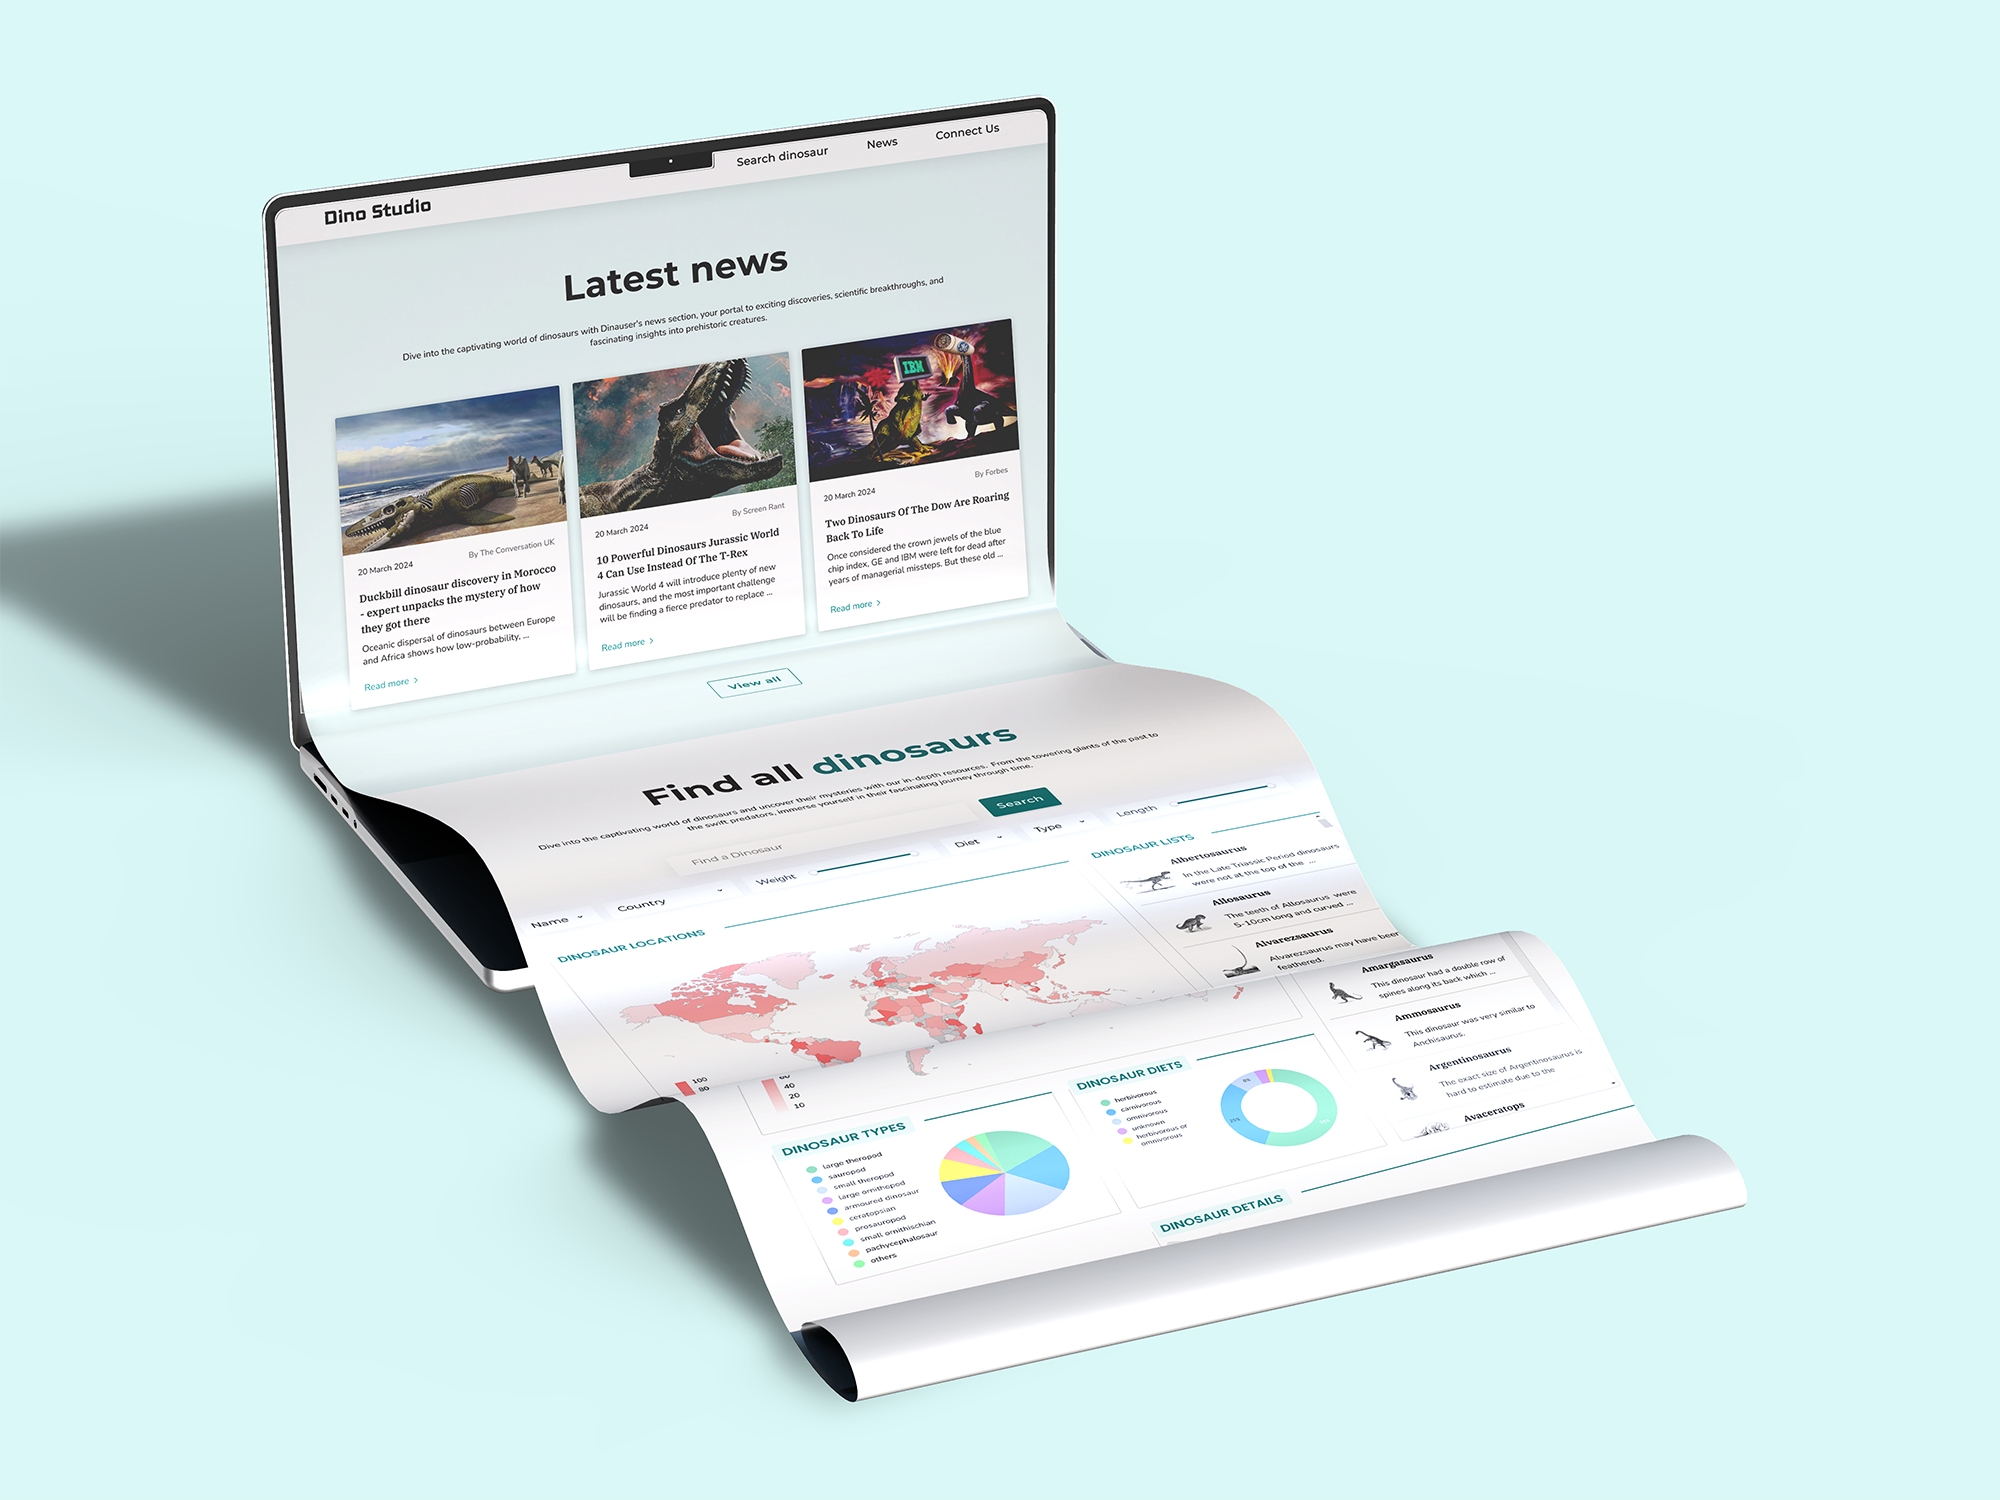
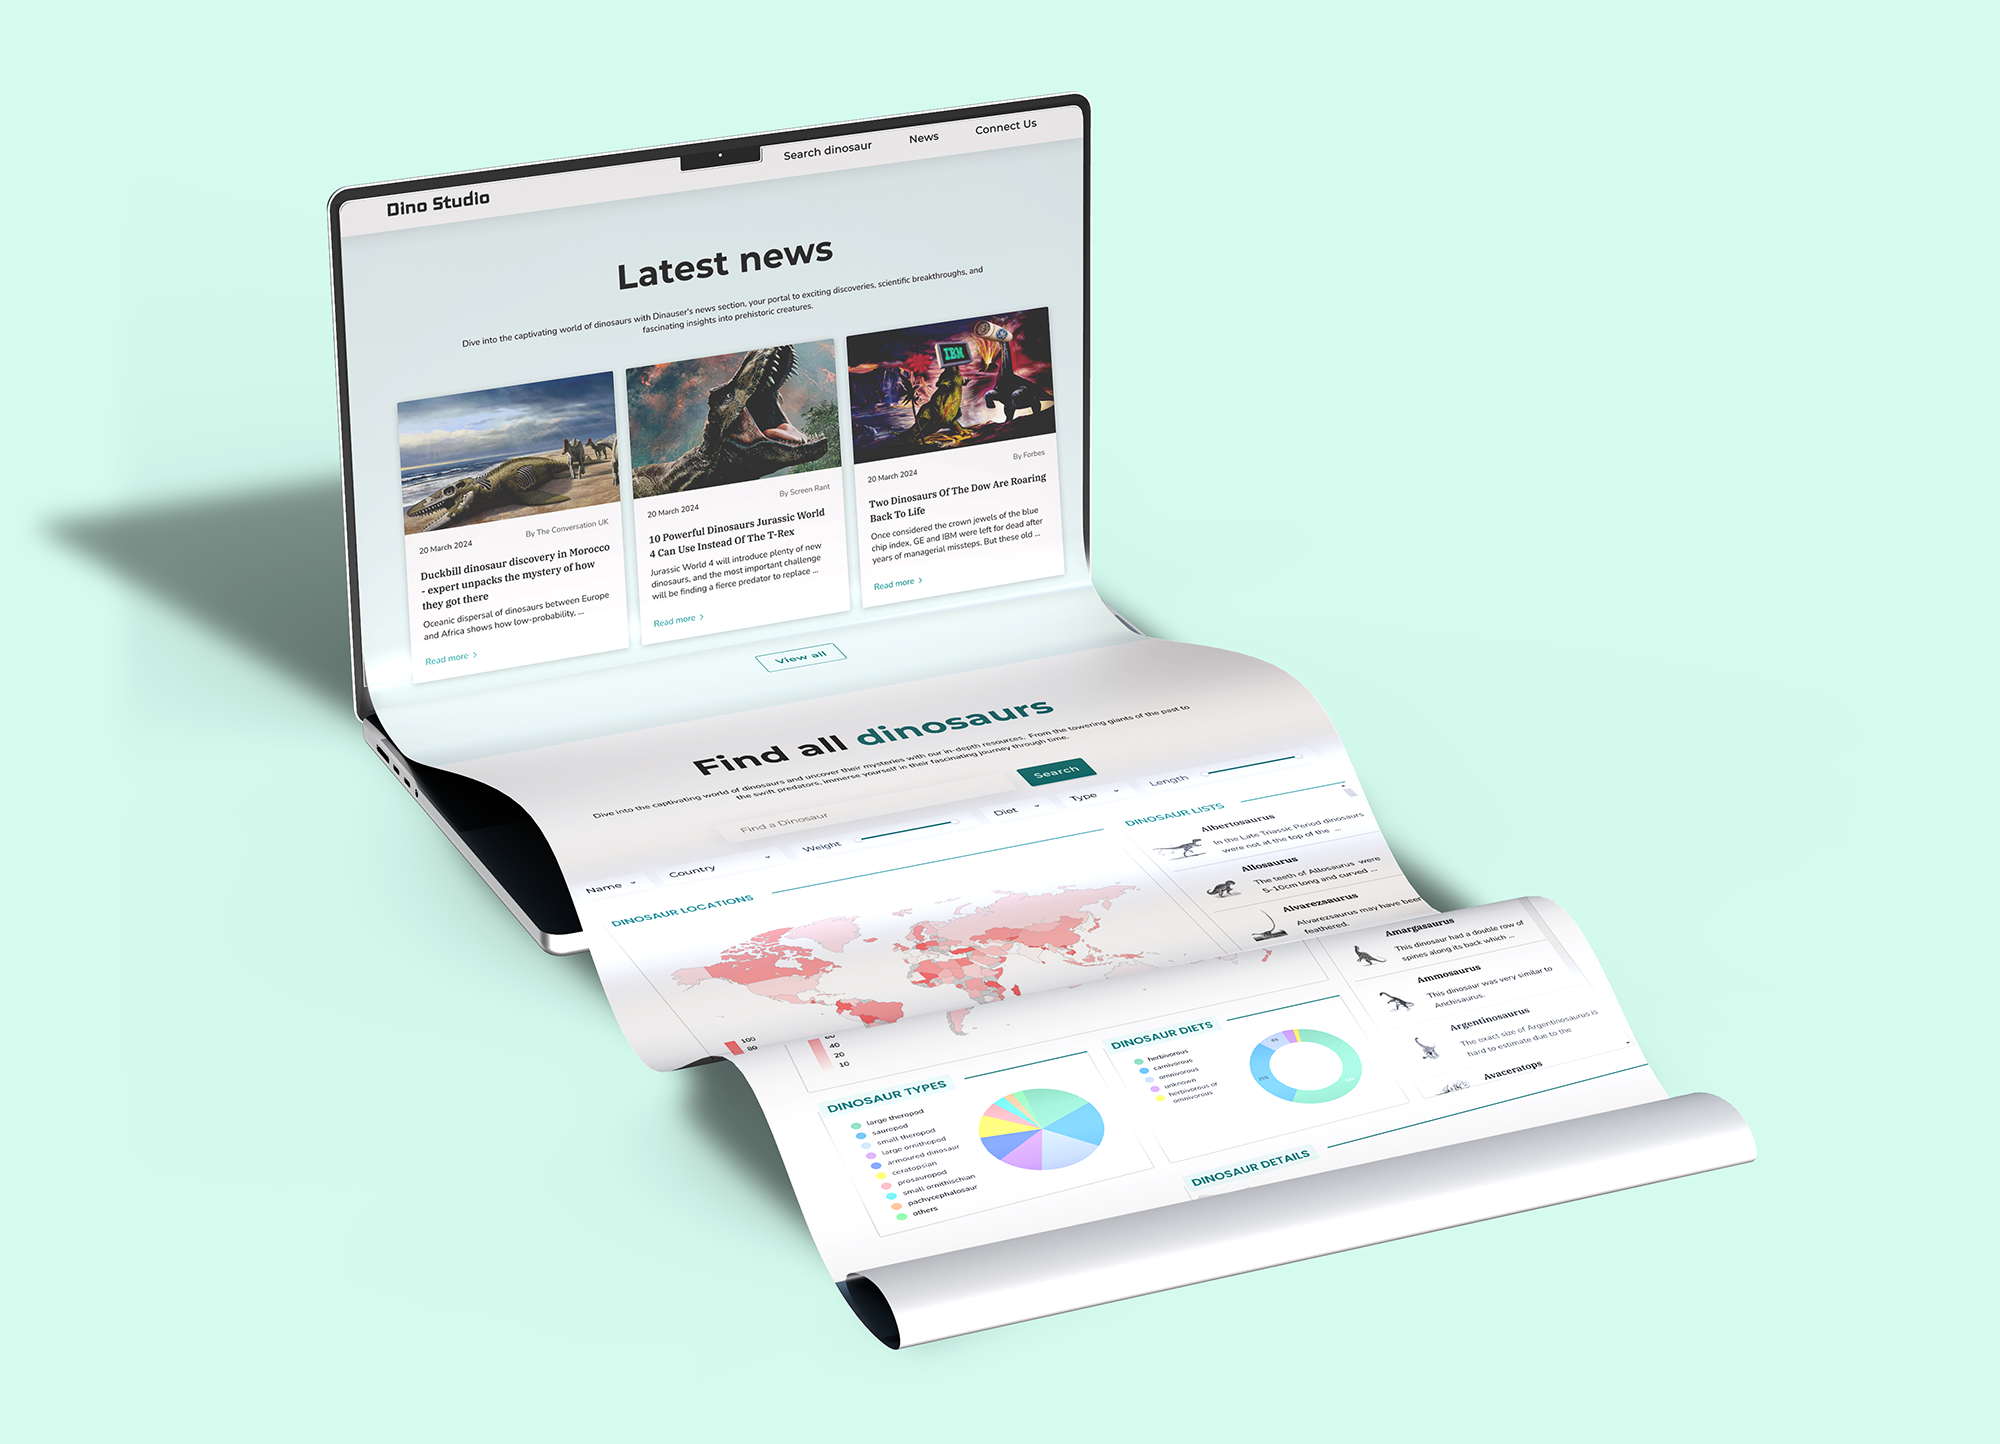
content(home): new Dino work image, matched frame bg, VOL. II
Update the Dino Studio selected-work mockup and set its preview frame
background to the new mint (#d5fbef). Correct the footer edition to
VOL. II.

diff --git a/index.html b/index.html
@@ -561,7 +561,7 @@
       </article>
 
       <article class="work-card">
-        <div class="work-preview" style="background:#d9f8f7"><img src="dino_studio_case_study/visuals/dino-home-mock.png" alt="Dino Studio app — Latest news and Find all dinosaurs pages shown on a laptop with a long scrolling page"></div>
+        <div class="work-preview" style="background:#d5fbef"><img src="dino_studio_case_study/visuals/dino-home-mock.png" alt="Dino Studio app — Latest news and Find all dinosaurs pages shown on a laptop with a long scrolling page"></div>
         <div class="work-body">
           <div>
             <div class="work-head-row">
@@ -677,7 +677,7 @@
     <div class="footer-inner">
       <div class="footer-brand">
         Farzaneh Falakrou
-        <small>PORTFOLIO · VOL. III · 2026</small>
+        <small>PORTFOLIO · VOL. II · 2026</small>
       </div>
       <div class="footer-col">
         <div class="footer-col-label">Index</div>
